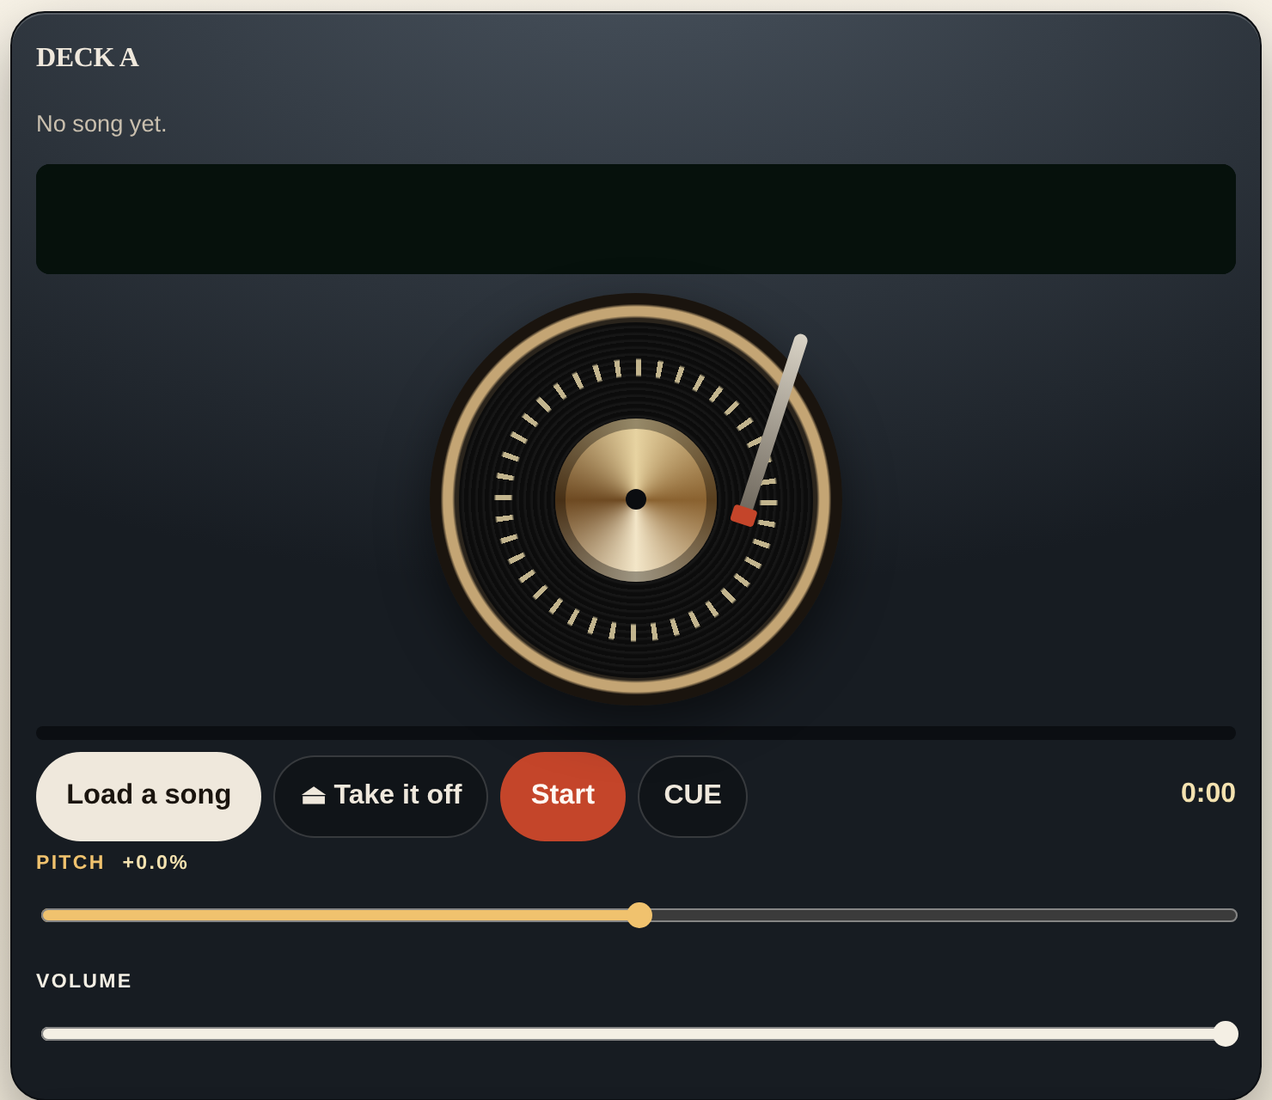
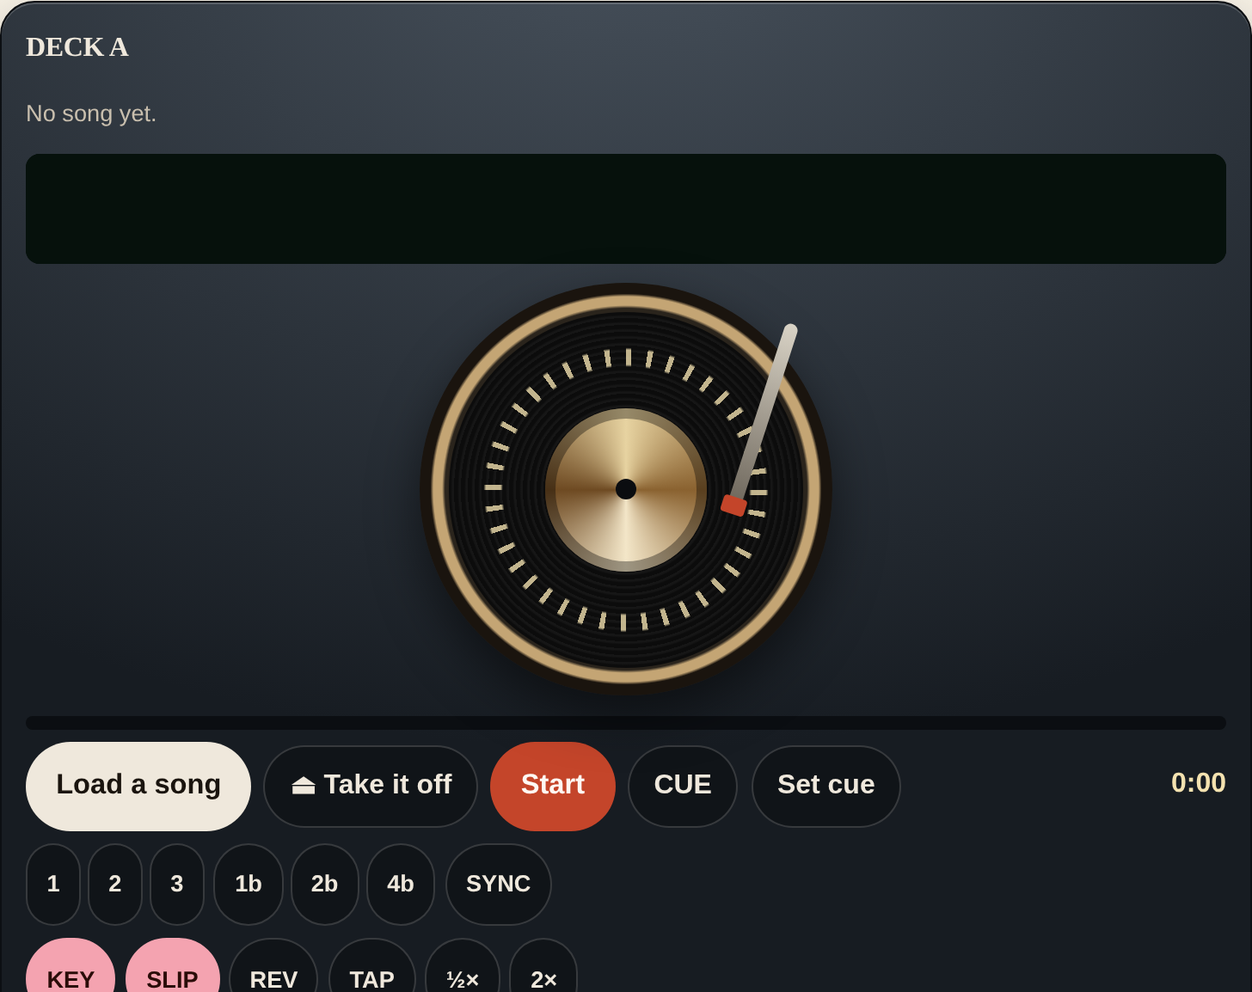
Turntables: cues, loops, SYNC and KEY/SLIP/REV/TAP stay on the Simple bench
Jimmy: keep this on the simple version. Simple now hides only the mixing
layer (nudge, filter, echo, EQ, kills). Guide text and picture follow. Cache
bumped.

Claude-Session: https://claude.ai/code/session_01DeFL2jVNTjgcE9uZVbxzre

Changed region(s): [[0.0, 0.0, 1.0, 1.0]]

diff --git a/aog-deploy/sw.js b/aog-deploy/sw.js
@@ -8,7 +8,7 @@
  * not run on this file. Forget the bump and returning visitors keep the stale
  * page from their cache.
  */
-const CACHE = 'aog-cache-2026.09.26.4870'   // NEW DASHBOARD STAGE 4: INBOX + SWITCH-OVER. previous: NEW DASHBOARD STAGE 3: TRENDS, BRICK BY BRICK, REPORTS; BLUEPRINT PRINTS CLEAN. previous: NEW DASHBOARD STAGE 2: STUDENTS + CHECK-INS, WIDER. previous: DEMO BUTTON BY MTSS; TALK IT OUT OFF DASHBOARD; TEACHER TOOLS ON NEW DASHBOARD. previous: ONE ROW PER SEND: THE NO-CORS BACKUP NO LONGER DUPLICATES A SEND GOOGLE ALREADY SAVED. previous: NEW DASHBOARD STAGE 1 (/dashboard): TODAY, HAND OUT, CLASS LINK, TEACHER + STUDENT VIEWS; SHORTER DAILY DRAFTS WORDS. previous: PRINTS IN COLOUR SITE-WIDE; DAILY DRAFTS STRAND TABS IN COLOUR; MASTERING LISTS FIXED. previous: COURSE UNITS: ONE SECTION PER PAGE WITH BACK / NEXT. previous: SEND TO MY TEACHER IS ONE BIG GREEN BUTTON. previous: MASTERING COURSES (turntables, drum machine) WITH PICTURES; SMALLER TICK. previous: DARK MODE LIGHTER (evening navy); PICKED FEELINGS SHOW SOLID GOLD. previous: BENCHES LISTED LAB THEN ITS MANUAL. previous: MICROSCOPE: LIVE TICK, REALISTIC CHITIN; QUARTZ LENSES. previous: HOME HERO FITS A LAPTOP WINDOW. previous: EXPLORE MENU FITS THE SCREEN AND GAINS AT HOME. previous: SLIDES FACELIFT: every Start-here picture on 167 lesson pages gets shading, shadows, a lit stage and a step counter (aog-slides.js). previous: GRACE AT HOME IS LIVE (/at-home); NEW VISITORS START LIGHT; /framework /dashboard doors; build stamp. previous: OSCILLOSCOPE RECORD BUTTON; BACK NO LONGER LOOPS ON HOME ROOMS; SHOW-MY-TEACHER CLOSES ON BACK; AT HOME LAST IN DOOR 3. previous: EVERY PAGE STARTS LIGHT (navy masthead, cream page); one-time reset of old dark choices. previous: MICROSCOPE: DOG HAIR & TICK SLIDE + SLIDES IN ONE GROUPED MENU. previous: MICROSCOPE ORIGINALS CRAFT PASS: drawn blood and cheek, capsule bacteria, clearer onion. previous: MICROSCOPE: LEAF HAIRS SLIDE. previous: MICROSCOPE CRAFT PASS: shaded pollen, lily net, wing shadows, guard cells, cached views. previous: TURNTABLES: LOAD A SONG OPENS YOUR SONG LIBRARY; every song is copied so it never vanishes. previous: FIVE NEW MICROSCOPE SLIDES (pollen, butterfly wing, leaf stomata, diatoms, salt & sugar) + THE BAR CLEARS THE NOTCH AND GAINS BACK. previous: PLAIN WORDS: Family Mode, Quiet Space teacher tips, the check-in/exit/My Voice code hints and the self-reflection start screen, EN+ES. previous: PLAIN WORDS: the Educator Dashboard's help, intro and empty-state text (about 50 passages) rewritten, EN+ES; last store footnote removed. previous: PLAIN WORDS: home page hero and three doors rewritten, EN+ES; CLAUDE.md gains the plain-words rule. previous: PRIVACY IN PLAIN WORDS: every Privacy section rewritten shorter and plainer, same facts, EN+ES. previous: THE CROSSWALK PDFs ARE RETIRED: the 10 files are gone, every link points to its page, old PDF addresses 301 to the pages, Original PDF buttons removed. previous: Crosswalk pages: Confidential labels and store notes removed. previous: ALL TEN CROSSWALKS ARE PAGES: IDEA Legal linked. previous: CROSSWALK PAGES: Restorative, both Matrix previews and the Divine Blueprint Master linked. previous: CROSSWALK PAGES: Illinois SEL, Danielson, IDEA, MTSS live; Matrix previews built. previous: CROSSWALKS AS PAGES begin: aog-crosswalk.css + xw-casel.html. previous: BACK WORKS FROM THE CROSSWALK: back no longer re-opens it or leaves a blank screen. previous: THE SLIPS OPEN AGAIN: _redirects gains the 8 share doors (/reflection /checkin /exit /support /goal /home /myvoice /contribute), link/exit.html and link/contribute.html are new; the daily check-in, exit slip and My Voice get leaded glass cards. previous: QUIET SPACE IN GLASS: six soft glass tiles, a leaded right-now check, glass chips per question, a chapel-light glow; no motion. previous: Self-reflection name box: Your name or a code / Initials or a nickname are fine (EN+ES). previous: ONE BACKGROUND EVERYWHERE (aog-calm.css: limestone with stained-glass light pools in light, the same over navy in dark), Crosswalk stands alone, elegant Crosswalk cards, Explore 3 columns without overlap and never self-opening, Today's picture Close clear of the date, Framework loop list aligned. previous: CALM ON EVERY PAGE + GLASS IN THE ROOMS + TURNTABLE TAPS. aog-calm.css (the stillness rules: no sideways pan, no zoom on tap, no motion on touch, no rubber-band, clear focus) loads on every page, tools/check-calm.js guards it; the 9 subject hubs and 5 SEL rooms get the stained glass (aog-glass-rooms.css); the turntable and drum bench stop raising copy/paste and answer the first tap. previous: THE HERO GETS A ROSE WINDOW: a leaded rose window lit from behind glows softly behind the name, and the three doors are leaded with a band of glass each. previous: THE ROSE WINDOW GETS A STEM: the STEM doorway is gone; a leaded-glass flower stem with two glass leaves grows down from Grace through the open bottom point, and the lower motto moves below it. previous: THE ECOSYSTEM IN REAL GLASS: every roundel a leaded rondel (mottled glass, backlight, eight lead cames around a centre ring), Grace ringed in cames; the bottom doorway is now STEM (a Math / Science chooser) and Families moves to the open point; Faith stays hidden. previous: THE ECOSYSTEM AS A ROSE WINDOW: every doorway on the Framework's orbit is a jewel-glass roundel with a lead rim and white lettering; Grace a gold-ringed medallion. previous: DOOR THREE BACK (Family, Framework, Standards Crosswalk, Privacy; store and district doors stay shut) + STAINED GLASS on Family Mode, the Crosswalk, the Framework and Privacy; the title focus ring box removed; Crosswalk doubled heading fixed; Request full set and Pilot for schools hidden. previous: EXPLORE MENU IN STAINED GLASS: leaded, gold-framed panel; every door icon a jewel-glass pane in its subject colour; room rows edged in their room's glass; 01/02 as gold medallions (aog-topbar.js, every page). previous: DAILY DRAFTS CONTROL CARD IN GLASS: each subject a tile of its own jewel glass (chosen one lit), Grade menu and Draft stepper leaded with a gold chevron, card framed. previous: ALGORITHM TILES: each column problem is its own tile, the operation a jewel pill, answer cells light and dashed (gold when in use), START a gold arrow; aog-legible.js and the contrast check now read color(srgb ...) values. previous: DAILY DRAFTS GLASS REACHES WRITING: the plan boxes are jewel panes with lead edges and the prompt card is leaded; verified the ten-strand glass on all 100 subject/grade combinations. previous: DAILY DRAFTS IN STAINED GLASS: each of the ten strand boxes is a leaded jewel-glass pane, the Structural elements chips light in the same colours as strands are finished, and the sheet is framed like a window (screen only; print unchanged). previous: WHO'S BUILDING + TEST RUNS. Student view asks Who's building today? (names this device sent under, or I'm new) and the solo Blueprint never falls back to another person; a Test runs switch on the teacher dashboard marks every send from any page as <name> (test), with a TEST RUN tag on every page while on. previous: STUDENT HOME + INBOX IN THE DASHBOARD. aog-mine.js keeps a private copy of each practice send on the learner's device (aog.practice.mine); the dashboard's Student view shows Keep building links and the learner's own Blueprint; the Inbox tab opens turn-ins.html?embed=1 inside the dashboard. previous: FIVE STAINED-GLASS WINDOWS: the Blueprint can be built as a Rose Window, Gothic Lancet, Tiffany Dome, Kaleidoscope Star or Byzantine Ceiling, chosen per student; mottled glass, lead came, backlight, stone and bronze frames. previous: MY BLUEPRINT: a rose-window mosaic in the Inbox (Blueprint view, ?blueprint=name): every send is a pane of stained glass, centre outward; I'm learning for me switch hides IEP wording; dashboard growth section links to it. Where-this-comes-from box removed. previous: INBOX SPEAKS BRICK: Copy for IEP evidence -> Copy this brick (IEP evidence kept in the tooltip and copied note). previous: INBOX SHOWS DAILY DRAFTS ANSWERS. Jimmy: the Inbox Daily Drafts cards read empty (Counts only). turn-ins.html now reads extra.answers (strand, answer, right/wrong, key), writing rows (text, plan, rubric), and any other extra fields. previous: AOG-LEGIBLE-V1: aog-legible.js on every page (via aog-grace.js; index.html directly) darkens or lightens any text below 3:1 against its real background until it reads, keeping its hue; re-runs on theme flips and new content. previous: BRICK BY BRICK. Jimmy: tie the data points to the program's architecture theme. Growth over time -> Brick by brick; Add to an IEP goal -> Lay these bricks; the IEP tab heading -> The Build · IEP progress monitor; Where the next teaching is -> Next brick. Printed evidence keeps the official IEP wording. previous: GROWTH OVER TIME: every graph gets Print this graph (one activity on its own sheet); the top button reads Print all of <student>'s graphs. previous: NO MORE CREAM ON WHITE. aog-grace.js marks light boxes of every tag (p, span, a, button too) inside the navy masthead and re-checks content rendered later; turn-ins.html closes its header so the Inbox cards are not in the masthead. previous: THE SHEET CONNECTION STAYS PUT (AOG-CONN-KEEP-V1). Jimmy: has to re-enter the Web App URL quite a bit. Safari clears localStorage after 7 days unvisited and each address (.org, .netlify.app, previews) has its own; aog-conn-keep.js mirrors the connection to IndexedDB + a cookie and restores it, and the dashboard gains Copy restore link (#aog-connect=, never sent to a server). previous: EDUCATOR DASHBOARD: the Open as text (iPad) button is gone. Jimmy: it 404s (the /script copy was never deployed) and is not needed; Download Code.gs and the Setup guide stay. previous: UP NEXT IS A REAL CRATE: records stand as sleeves in a wooden box, drag one onto a deck or press A/B. previous: TURNTABLE RECORD CRATE + PICTURE GUIDES. Jimmy: make the turntable remember what was last used after the tab closes, with a Previously spun list and an Up next crate; put pictures in the turntable and drum kit guides. music-decks.html gains the crate (IndexedDB aog-crate: each deck's record + needle position, last 8 spun, Up next queue) and restores both decks on open; decks-guide.html gains section 7 Your record crate (pt-crate-next/prev/row.png); drums-guide.html gains screenshots in sections 5-9 (pd-presets.png new) replacing the icon drawings in Nothing is happening; music-drums .chip text color fixed for dark theme. previous: NO DARWINIAN EVOLUTION IN SCIENCE. Jimmy: remove evolution in the sense of Darwin. The Natural Selection (b8) and Genetics and Evolution (b33) Exam Prep rooms are retired (/b8 -> /exam-prep, /b33 -> /sci-u17) and dropped from every page's jump menu, the topbar, the precache list and the hubs; evolution items in the other science rooms are rewritten; the MS/HS LS4 codes leave the crosswalk; the Unit 14 banner loses its Galapagos finches (AOG-NOEVO-V1).
+const CACHE = 'aog-cache-2026.09.26.4880'   // NEW DASHBOARD STAGE 4: INBOX + SWITCH-OVER. previous: NEW DASHBOARD STAGE 3: TRENDS, BRICK BY BRICK, REPORTS; BLUEPRINT PRINTS CLEAN. previous: NEW DASHBOARD STAGE 2: STUDENTS + CHECK-INS, WIDER. previous: DEMO BUTTON BY MTSS; TALK IT OUT OFF DASHBOARD; TEACHER TOOLS ON NEW DASHBOARD. previous: ONE ROW PER SEND: THE NO-CORS BACKUP NO LONGER DUPLICATES A SEND GOOGLE ALREADY SAVED. previous: NEW DASHBOARD STAGE 1 (/dashboard): TODAY, HAND OUT, CLASS LINK, TEACHER + STUDENT VIEWS; SHORTER DAILY DRAFTS WORDS. previous: PRINTS IN COLOUR SITE-WIDE; DAILY DRAFTS STRAND TABS IN COLOUR; MASTERING LISTS FIXED. previous: COURSE UNITS: ONE SECTION PER PAGE WITH BACK / NEXT. previous: SEND TO MY TEACHER IS ONE BIG GREEN BUTTON. previous: MASTERING COURSES (turntables, drum machine) WITH PICTURES; SMALLER TICK. previous: DARK MODE LIGHTER (evening navy); PICKED FEELINGS SHOW SOLID GOLD. previous: BENCHES LISTED LAB THEN ITS MANUAL. previous: MICROSCOPE: LIVE TICK, REALISTIC CHITIN; QUARTZ LENSES. previous: HOME HERO FITS A LAPTOP WINDOW. previous: EXPLORE MENU FITS THE SCREEN AND GAINS AT HOME. previous: SLIDES FACELIFT: every Start-here picture on 167 lesson pages gets shading, shadows, a lit stage and a step counter (aog-slides.js). previous: GRACE AT HOME IS LIVE (/at-home); NEW VISITORS START LIGHT; /framework /dashboard doors; build stamp. previous: OSCILLOSCOPE RECORD BUTTON; BACK NO LONGER LOOPS ON HOME ROOMS; SHOW-MY-TEACHER CLOSES ON BACK; AT HOME LAST IN DOOR 3. previous: EVERY PAGE STARTS LIGHT (navy masthead, cream page); one-time reset of old dark choices. previous: MICROSCOPE: DOG HAIR & TICK SLIDE + SLIDES IN ONE GROUPED MENU. previous: MICROSCOPE ORIGINALS CRAFT PASS: drawn blood and cheek, capsule bacteria, clearer onion. previous: MICROSCOPE: LEAF HAIRS SLIDE. previous: MICROSCOPE CRAFT PASS: shaded pollen, lily net, wing shadows, guard cells, cached views. previous: TURNTABLES: LOAD A SONG OPENS YOUR SONG LIBRARY; every song is copied so it never vanishes. previous: FIVE NEW MICROSCOPE SLIDES (pollen, butterfly wing, leaf stomata, diatoms, salt & sugar) + THE BAR CLEARS THE NOTCH AND GAINS BACK. previous: PLAIN WORDS: Family Mode, Quiet Space teacher tips, the check-in/exit/My Voice code hints and the self-reflection start screen, EN+ES. previous: PLAIN WORDS: the Educator Dashboard's help, intro and empty-state text (about 50 passages) rewritten, EN+ES; last store footnote removed. previous: PLAIN WORDS: home page hero and three doors rewritten, EN+ES; CLAUDE.md gains the plain-words rule. previous: PRIVACY IN PLAIN WORDS: every Privacy section rewritten shorter and plainer, same facts, EN+ES. previous: THE CROSSWALK PDFs ARE RETIRED: the 10 files are gone, every link points to its page, old PDF addresses 301 to the pages, Original PDF buttons removed. previous: Crosswalk pages: Confidential labels and store notes removed. previous: ALL TEN CROSSWALKS ARE PAGES: IDEA Legal linked. previous: CROSSWALK PAGES: Restorative, both Matrix previews and the Divine Blueprint Master linked. previous: CROSSWALK PAGES: Illinois SEL, Danielson, IDEA, MTSS live; Matrix previews built. previous: CROSSWALKS AS PAGES begin: aog-crosswalk.css + xw-casel.html. previous: BACK WORKS FROM THE CROSSWALK: back no longer re-opens it or leaves a blank screen. previous: THE SLIPS OPEN AGAIN: _redirects gains the 8 share doors (/reflection /checkin /exit /support /goal /home /myvoice /contribute), link/exit.html and link/contribute.html are new; the daily check-in, exit slip and My Voice get leaded glass cards. previous: QUIET SPACE IN GLASS: six soft glass tiles, a leaded right-now check, glass chips per question, a chapel-light glow; no motion. previous: Self-reflection name box: Your name or a code / Initials or a nickname are fine (EN+ES). previous: ONE BACKGROUND EVERYWHERE (aog-calm.css: limestone with stained-glass light pools in light, the same over navy in dark), Crosswalk stands alone, elegant Crosswalk cards, Explore 3 columns without overlap and never self-opening, Today's picture Close clear of the date, Framework loop list aligned. previous: CALM ON EVERY PAGE + GLASS IN THE ROOMS + TURNTABLE TAPS. aog-calm.css (the stillness rules: no sideways pan, no zoom on tap, no motion on touch, no rubber-band, clear focus) loads on every page, tools/check-calm.js guards it; the 9 subject hubs and 5 SEL rooms get the stained glass (aog-glass-rooms.css); the turntable and drum bench stop raising copy/paste and answer the first tap. previous: THE HERO GETS A ROSE WINDOW: a leaded rose window lit from behind glows softly behind the name, and the three doors are leaded with a band of glass each. previous: THE ROSE WINDOW GETS A STEM: the STEM doorway is gone; a leaded-glass flower stem with two glass leaves grows down from Grace through the open bottom point, and the lower motto moves below it. previous: THE ECOSYSTEM IN REAL GLASS: every roundel a leaded rondel (mottled glass, backlight, eight lead cames around a centre ring), Grace ringed in cames; the bottom doorway is now STEM (a Math / Science chooser) and Families moves to the open point; Faith stays hidden. previous: THE ECOSYSTEM AS A ROSE WINDOW: every doorway on the Framework's orbit is a jewel-glass roundel with a lead rim and white lettering; Grace a gold-ringed medallion. previous: DOOR THREE BACK (Family, Framework, Standards Crosswalk, Privacy; store and district doors stay shut) + STAINED GLASS on Family Mode, the Crosswalk, the Framework and Privacy; the title focus ring box removed; Crosswalk doubled heading fixed; Request full set and Pilot for schools hidden. previous: EXPLORE MENU IN STAINED GLASS: leaded, gold-framed panel; every door icon a jewel-glass pane in its subject colour; room rows edged in their room's glass; 01/02 as gold medallions (aog-topbar.js, every page). previous: DAILY DRAFTS CONTROL CARD IN GLASS: each subject a tile of its own jewel glass (chosen one lit), Grade menu and Draft stepper leaded with a gold chevron, card framed. previous: ALGORITHM TILES: each column problem is its own tile, the operation a jewel pill, answer cells light and dashed (gold when in use), START a gold arrow; aog-legible.js and the contrast check now read color(srgb ...) values. previous: DAILY DRAFTS GLASS REACHES WRITING: the plan boxes are jewel panes with lead edges and the prompt card is leaded; verified the ten-strand glass on all 100 subject/grade combinations. previous: DAILY DRAFTS IN STAINED GLASS: each of the ten strand boxes is a leaded jewel-glass pane, the Structural elements chips light in the same colours as strands are finished, and the sheet is framed like a window (screen only; print unchanged). previous: WHO'S BUILDING + TEST RUNS. Student view asks Who's building today? (names this device sent under, or I'm new) and the solo Blueprint never falls back to another person; a Test runs switch on the teacher dashboard marks every send from any page as <name> (test), with a TEST RUN tag on every page while on. previous: STUDENT HOME + INBOX IN THE DASHBOARD. aog-mine.js keeps a private copy of each practice send on the learner's device (aog.practice.mine); the dashboard's Student view shows Keep building links and the learner's own Blueprint; the Inbox tab opens turn-ins.html?embed=1 inside the dashboard. previous: FIVE STAINED-GLASS WINDOWS: the Blueprint can be built as a Rose Window, Gothic Lancet, Tiffany Dome, Kaleidoscope Star or Byzantine Ceiling, chosen per student; mottled glass, lead came, backlight, stone and bronze frames. previous: MY BLUEPRINT: a rose-window mosaic in the Inbox (Blueprint view, ?blueprint=name): every send is a pane of stained glass, centre outward; I'm learning for me switch hides IEP wording; dashboard growth section links to it. Where-this-comes-from box removed. previous: INBOX SPEAKS BRICK: Copy for IEP evidence -> Copy this brick (IEP evidence kept in the tooltip and copied note). previous: INBOX SHOWS DAILY DRAFTS ANSWERS. Jimmy: the Inbox Daily Drafts cards read empty (Counts only). turn-ins.html now reads extra.answers (strand, answer, right/wrong, key), writing rows (text, plan, rubric), and any other extra fields. previous: AOG-LEGIBLE-V1: aog-legible.js on every page (via aog-grace.js; index.html directly) darkens or lightens any text below 3:1 against its real background until it reads, keeping its hue; re-runs on theme flips and new content. previous: BRICK BY BRICK. Jimmy: tie the data points to the program's architecture theme. Growth over time -> Brick by brick; Add to an IEP goal -> Lay these bricks; the IEP tab heading -> The Build · IEP progress monitor; Where the next teaching is -> Next brick. Printed evidence keeps the official IEP wording. previous: GROWTH OVER TIME: every graph gets Print this graph (one activity on its own sheet); the top button reads Print all of <student>'s graphs. previous: NO MORE CREAM ON WHITE. aog-grace.js marks light boxes of every tag (p, span, a, button too) inside the navy masthead and re-checks content rendered later; turn-ins.html closes its header so the Inbox cards are not in the masthead. previous: THE SHEET CONNECTION STAYS PUT (AOG-CONN-KEEP-V1). Jimmy: has to re-enter the Web App URL quite a bit. Safari clears localStorage after 7 days unvisited and each address (.org, .netlify.app, previews) has its own; aog-conn-keep.js mirrors the connection to IndexedDB + a cookie and restores it, and the dashboard gains Copy restore link (#aog-connect=, never sent to a server). previous: EDUCATOR DASHBOARD: the Open as text (iPad) button is gone. Jimmy: it 404s (the /script copy was never deployed) and is not needed; Download Code.gs and the Setup guide stay. previous: UP NEXT IS A REAL CRATE: records stand as sleeves in a wooden box, drag one onto a deck or press A/B. previous: TURNTABLE RECORD CRATE + PICTURE GUIDES. Jimmy: make the turntable remember what was last used after the tab closes, with a Previously spun list and an Up next crate; put pictures in the turntable and drum kit guides. music-decks.html gains the crate (IndexedDB aog-crate: each deck's record + needle position, last 8 spun, Up next queue) and restores both decks on open; decks-guide.html gains section 7 Your record crate (pt-crate-next/prev/row.png); drums-guide.html gains screenshots in sections 5-9 (pd-presets.png new) replacing the icon drawings in Nothing is happening; music-drums .chip text color fixed for dark theme. previous: NO DARWINIAN EVOLUTION IN SCIENCE. Jimmy: remove evolution in the sense of Darwin. The Natural Selection (b8) and Genetics and Evolution (b33) Exam Prep rooms are retired (/b8 -> /exam-prep, /b33 -> /sci-u17) and dropped from every page's jump menu, the topbar, the precache list and the hubs; evolution items in the other science rooms are rewritten; the MS/HS LS4 codes leave the crosswalk; the Unit 14 banner loses its Galapagos finches (AOG-NOEVO-V1).
 // previous: const CACHE = 'aog-cache-2026.09.26.4421'   // ANCHOR CHARTS: THE BACKPACK BOXES TAKE WORDS. Jimmy: "This seems like a area to insert but you can insert anything." The four 'Added as the lesson progresses' boxes were reveal-only; now a tap reveals a waiting box and each box takes the class's own words, saved with the chart (AOG-AC-PACKTAP-V1).
 // previous: const CACHE = 'aog-cache-2026.09.26.4420'   // ECONOMICS FL.1 AND STANDARDS TAGGING. Economics Unit 1 gains lesson 2.12, Investing in Your Own Skills (SS.EC.FL.1.9-12: education and career choices as a cost-benefit decision), spliced into eco-u1.html by a three-way merge of the course build so no later page edit is lost. World Religions units 4, 5, 7 and 9 are tagged SS.G.6.9-12 and the capstone RH.11-12.8, where the lessons already teach them; the crosswalk and standards data are rebuilt.
 // previous: const CACHE = 'aog-cache-2026.09.26.4419'   // DAILY DRAFTS, SPANISH CULTURES AND FACS RELATIONSHIPS. ACTFL Cultures and Comparisons join every Spanish reading box in that grade's language rung; FACS standards 1, 12 and 13 (career and family, human development, relationships) join the decide/reasoning boxes. Economics and World Religions already match their standards one box to one. Still ten boxes (AOG-DD-STD3-V1).

diff --git a/aog-deploy/music-decks.html b/aog-deploy/music-decks.html
@@ -54,9 +54,11 @@ button,label.file{font:inherit;cursor:pointer;touch-action:none}
 .decktabs{display:none;gap:.4rem;margin:.7rem 0 0}
 .decktabs .pill{flex:1;justify-content:center;font-weight:800}
 .decktabs .pill.on{background:var(--ink);color:var(--card);border-color:var(--ink)}
-body.bench-simple .deck .row.tr,body.bench-simple .deck .drophint,body.bench-simple .deck .zoom,
+/* Jimmy, 2026-09-26: keep Set cue, the hot cues, loops, SYNC, BPM, KEY / SLIP / REV / TAP / ½× / 2× on the Simple bench too.
+   Simple now hides only the mixing layer: nudge, filter, echo, EQ and the kills. */
+body.bench-simple .deck .zoom,
 body.bench-simple .deck label.knob:has([data-filter]),body.bench-simple .deck label.knob:has([data-echo]),body.bench-simple .deck label.knob:has([data-eq]),
-body.bench-simple .deck .row:has([data-nudge]),body.bench-simple .deck [data-setcue],body.bench-simple .deck [data-wide],
+body.bench-simple .deck .row:has([data-nudge]),body.bench-simple .deck [data-wide],
 body.bench-simple .xrow #curveBtn,body.bench-simple .xrow #noiseBtn,body.bench-simple .xrow #touchBtn,body.bench-simple .eqwrap{display:none}
 body.bench-simple .deck .row .file,body.bench-simple .deck .row .go{min-height:52px;font-size:1.02rem;padding:0 1.1rem}
 body.bench-simple .deck .row .ghost{min-height:48px}

diff --git a/aog-deploy/decks-guide.html b/aog-deploy/decks-guide.html
@@ -159,7 +159,7 @@ footer { margin-top:2rem; padding-top:1rem; border-top:1px solid var(--line); co
 <!-- AOG-DECKS-SIMPLE-GUIDE-V1 (2026-09-26) — the decks open on the Simple bench, so the guide does too. -->
 <section>
   <h2><span class="n">&#9733;</span>Start here &middot; the Simple bench</h2>
-  <p class="sub">This is what the turntables show first. <b>Full bench</b> brings back hot cues, loops, SYNC, nudge, filter, echo and EQ &mdash; that is what the rest of this guide shows.</p>
+  <p class="sub">This is what the turntables show first: the record, the buttons, cues, loops, SYNC, Pitch and Volume. <b>Full bench</b> adds the mixing layer &mdash; nudge, filter, echo, EQ and the kills &mdash; which the rest of this guide shows.</p>
   <figure class="whole"><img src="/pt-s-deck.png" alt="One deck on the Simple bench: the record, Load a song, Take it off, Start, CUE, Pitch and Volume."><figcaption>One deck on the Simple bench. Deck B is the same.</figcaption></figure>
   <div class="parts">
     <div class="part wide">
